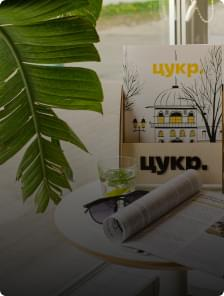
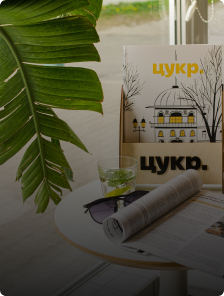
remark intro

diff --git a/app/css/app.min.css b/app/css/app.min.css
@@ -1392,24 +1392,13 @@ body.lock {
 }
 
 .intro__right {
-  position: absolute;
+  margin: 0 0 0 -190px;
+  position: relative;
+  width: 580px;
+  height: 492px;
+  -ms-flex-negative: 0;
+      flex-shrink: 0;
   z-index: -2;
-  right: 1px;
-  min-width: 620px;
-  height: 650px;
-  display: -webkit-box;
-  display: -ms-flexbox;
-  display: flex;
-  -webkit-box-pack: center;
-      -ms-flex-pack: center;
-          justify-content: center;
-  -webkit-box-align: center;
-      -ms-flex-align: center;
-          align-items: center;
-  -webkit-box-orient: vertical;
-  -webkit-box-direction: normal;
-      -ms-flex-direction: column;
-          flex-direction: column;
 }
 
 .intro__right video {
@@ -1420,31 +1409,20 @@ body.lock {
   height: 100%;
   -o-object-fit: cover;
      object-fit: cover;
+  z-index: -1;
 }
 
-.intro__text {
+.intro__right::before {
+  content: "";
   position: absolute;
   top: 0;
   left: 0;
-  background: #000;
-  width: 101%;
-  height: 101%;
-  text-align: center;
-  font-size: 530px;
-  line-height: 100%;
-  mix-blend-mode: darken;
-}
-
-.intro__text span:first-child {
-  position: absolute;
-  top: -10px;
-  left: 0;
-}
-
-.intro__text span:last-child {
-  position: absolute;
-  bottom: -8px;
-  right: 2px;
+  bottom: 0;
+  right: 0;
+  background-image: url("../images/dest/main/intro-space.png");
+  background-size: cover;
+  background-repeat: no-repeat;
+  background-position: center;
 }
 
 /*end intro=======*/
@@ -2478,16 +2456,6 @@ body.lock {
   .intro__inner::before {
     bottom: 0;
   }
-  .intro__text {
-    font-size: 35rem;
-  }
-  .intro__right {
-    min-width: auto;
-    right: 0;
-    top: 10%;
-    width: 420px;
-    height: 414px;
-  }
   .fancybox-slide--html .fancybox-close-small {
     right: 10px;
     top: 10px;
@@ -2514,13 +2482,6 @@ body.lock {
   }
   .intro__title {
     font-size: 4rem;
-  }
-  .intro__text {
-    font-size: 28rem;
-  }
-  .intro__right {
-    width: 340px;
-    height: 325px;
   }
   .aprroach__item {
     width: calc(50% - 30px);
@@ -2638,24 +2599,19 @@ body.lock {
         -ms-flex-align: start;
             align-items: flex-start;
   }
-  .intro__right {
-    position: absolute;
-    top: 12%;
-    left: 0;
-    min-width: 320px;
-    max-width: 320px;
-    height: 320px;
-  }
-  .intro__text span:last-child {
-    bottom: -30px;
-    right: -10px;
-  }
-  .intro__text {
-    font-size: 28rem;
-  }
   .intro {
-    padding: 0 0 70px 0;
+    padding: 100px 0 70px 0;
     overflow: hidden;
+  }
+  .intro__right {
+    margin: 0;
+    width: 320px;
+    height: 271px;
+  }
+  .intro__left {
+    -webkit-transform: translateY(-77px);
+        -ms-transform: translateY(-77px);
+            transform: translateY(-77px);
   }
   .intro__left p {
     margin: 10px 0 30px 0 !important;
@@ -2807,9 +2763,6 @@ body.lock {
   }
   .form__choice {
     padding: 10px 10px;
-  }
-  .intro__left {
-    padding: 5% 0 24% 0;
   }
   .works {
     padding: 100px 0 50px;
@@ -3000,9 +2953,6 @@ body.lock {
   }
   .form .form__choice + .form__choice {
     margin: 0 0 0 10px;
-  }
-  .intro__title {
-    font-size: 3rem;
   }
   .stack li {
     width: 100%;

diff --git a/app/scss/_media.scss b/app/scss/_media.scss
@@ -97,18 +97,6 @@
     bottom: 0;
   }
 
-  .intro__text {
-    font-size: 35rem;
-  }
-
-  .intro__right {
-    min-width: auto;
-    right: 0;
-    top: 10%;
-    width: 420px;
-    height: 414px;
-  }
-
   .fancybox-slide--html .fancybox-close-small {
     right: 10px;
     top: 10px;
@@ -140,15 +128,6 @@
 
   .intro__title {
     font-size: 4rem;
-  }
-
-  .intro__text {
-    font-size: 28rem;
-  }
-
-  .intro__right {
-    width: 340px;
-    height: 325px;
   }
 
   .aprroach__item {
@@ -282,29 +261,19 @@
     align-items: flex-start;
   }
 
-  .intro__right {
-    position: absolute;
-    top: 12%;
-    left: 0;
-    min-width: 320px;
-    max-width: 320px;
-    height: 320px;
-  }
-
-  .intro__text span:last-child {
-    bottom: -30px;
-    right: -10px;
-  }
-
-  .intro__text {
-    font-size: 28rem;
-  }
-
   .intro {
-    padding: 0 0 70px 0;
+    padding: 100px 0 70px 0;
     overflow: hidden;
   }
 
+  .intro__right {
+    margin: 0;
+    width: 320px;
+    height: 271px;
+  }
+  .intro__left{
+    transform: translateY(-77px);
+  }
   .intro__left p {
     margin: 10px 0 30px 0 !important;
   }
@@ -465,10 +434,6 @@
 
   .form__choice {
     padding: 10px 10px;
-  }
-
-  .intro__left {
-    padding: 5% 0 24% 0;
   }
 
   .works {
@@ -693,10 +658,6 @@
 
   .form .form__choice+.form__choice {
     margin: 0 0 0 10px;
-  }
-
-  .intro__title {
-    font-size: 3rem;
   }
 
   .stack li {

diff --git a/app/scss/style.scss b/app/scss/style.scss
@@ -366,16 +366,12 @@
   }
 
   &__right {
-    position: absolute;
+    margin: 0 0 0 -190px;
+    position: relative;
+    width: 580px;
+    height: 492px;
+    flex-shrink: 0;
     z-index: -2;
-    right: 1px;
-    min-width: 620px;
-    height: 650px;
-    display: flex;
-    justify-content: center;
-    align-items: center;
-    flex-direction: column;
-
     video {
       position: absolute;
       top: 0;
@@ -383,31 +379,19 @@
       width: 100%;
       height: 100%;
       object-fit: cover;
+      z-index: -1;
     }
-  }
-
-  &__text {
-    position: absolute;
-    top: 0;
-    left: 0;
-    background: #000;
-    width: 101%;
-    height: 101%;
-    text-align: center;
-    font-size: 530px;
-    line-height: 100%;
-    mix-blend-mode: darken;
-
-    span:first-child {
+    &::before{
+      content: "";
       position: absolute;
-      top: -10px;
+      top: 0;
       left: 0;
-    }
-
-    span:last-child {
-      position: absolute;
-      bottom: -8px;
-      right: 2px;
+      bottom: 0;
+      right: 0;
+      background-image: url("../images/dest/main/intro-space.png");
+      background-size: cover;
+      background-repeat: no-repeat;
+      background-position: center;
     }
   }
 }

diff --git a/app/index.html b/app/index.html
@@ -89,7 +89,6 @@
             </div>
           </div>
         </header>
-
         <section class="intro">
           <div class="container">
             <div class="intro__inner">
@@ -103,10 +102,6 @@
               </div>
               <div class="intro__right">
                 <video src="images/dest/main/video.mp4" autoplay loop muted></video>
-                <h4 class="intro__text">
-                  <span>Y</span>
-                  <span>C</span>
-                </h4>
               </div>
             </div>
           </div>

diff --git a/app/about.html b/app/about.html
@@ -105,10 +105,6 @@
               </div>
               <div class="intro__right">
                 <video src="images/dest/main/video.mp4" autoplay loop muted></video>
-                <h4 class="intro__text">
-                  <span>Y</span>
-                  <span>C</span>
-                </h4>
               </div>
             </div>
           </div>

diff --git a/app/daps.html b/app/daps.html
@@ -105,10 +105,6 @@
               </div>
               <div class="intro__right">
                 <video src="images/dest/main/video.mp4" autoplay loop muted></video>
-                <h4 class="intro__text">
-                  <span>Y</span>
-                  <span>C</span>
-                </h4>
               </div>
             </div>
           </div>

diff --git a/app/design.html b/app/design.html
@@ -102,10 +102,6 @@
               </div>
               <div class="intro__right">
                 <video src="images/dest/main/video.mp4" autoplay loop muted></video>
-                <h4 class="intro__text">
-                  <span>Y</span>
-                  <span>C</span>
-                </h4>
               </div>
             </div>
           </div>

diff --git a/app/development.html b/app/development.html
@@ -105,10 +105,6 @@
               </div>
               <div class="intro__right">
                 <video src="images/dest/main/video.mp4" autoplay loop muted></video>
-                <h4 class="intro__text">
-                  <span>Y</span>
-                  <span>C</span>
-                </h4>
               </div>
             </div>
           </div>

diff --git a/app/projects.html b/app/projects.html
@@ -102,10 +102,6 @@
               </div>
               <div class="intro__right">
                 <video src="images/dest/main/video.mp4" autoplay loop muted></video>
-                <h4 class="intro__text">
-                  <span>Y</span>
-                  <span>C</span>
-                </h4>
               </div>
             </div>
           </div>
